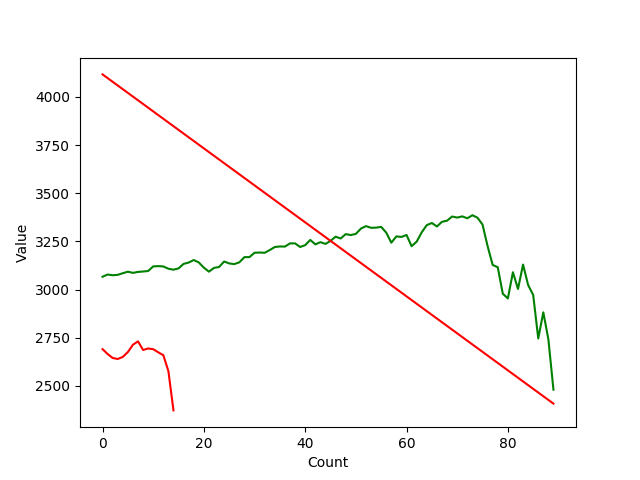
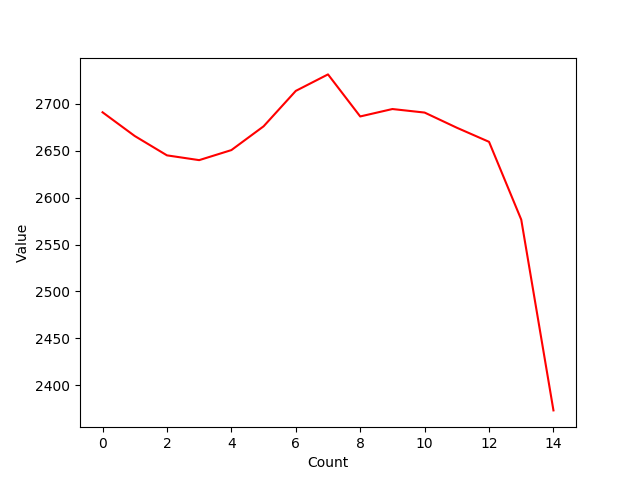
Automated Commision

diff --git a/prediction/sequential.py b/prediction/sequential.py
@@ -40,23 +40,25 @@ def regression_momentum_bias(timeseries, observation_range):
             low = i
     high_low_slope = (timeseries.raw_datapoint(high) - timeseries.raw_datapoint(low)) / (high - low)
     
-    slope = sqrt(high_low_slope * end_point_slope) # growth rate (regression slope)
+    slope = sqrt(abs(high_low_slope) * abs(end_point_slope)) # growth rate (regression slope)
     if high_low_slope < 0 or end_point_slope < 0:
         slope *= -1
-        
+
     midpoint = int(timeseries.raw_size() / 2)
     line_bias = timeseries.raw_datapoint(0) + timeseries.raw_datapoint(midpoint) - (slope * midpoint + timeseries.raw_datapoint(0))
 
-    line = [i * slope + line_bias for i in range(timeseries.raw_size())]
-    graph(timeseries.raw_matrix(), "green", "trend.png", False)
-    graph(line, "red", "trend.png", False)
+    #line = [i * slope + line_bias for i in range(timeseries.raw_size())]
+    #graph(timeseries.raw_matrix(), "green", "trend.png", False)
+    #graph(line, "red", "trend.png", False)
     
     # calculate bias momentum by comparing the amount of plots in a certain range of 
     # difference of the actual stock prices between the values represented by the regression line
     bias = 0
     for i in range(timeseries.raw_size() - 2, timeseries.raw_size() - observation_range, -1):
-        print(slope * i + line_bias)
-
+        if abs(slope * i + line_bias - timeseries.raw_datapoint(i)) < 80:
+            bias += 1
+    bias *= slope
+    
     return bias
 
 def sequential_prediction(model=None, stock_id=None, date=None, graphing=True, log=True, add_bias=True, itr=10):
